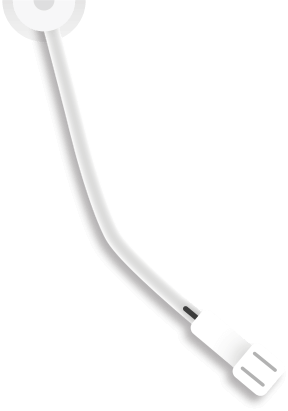
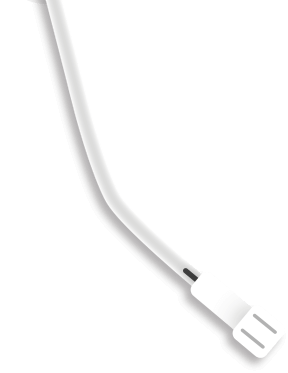
优化滚动条/完善上拉刷新

Changed region(s): [[0.0938, 0.0, 0.9688, 0.9732], [0.25, 0.0, 0.3125, 0.0295], [0.0, 0.0, 0.0625, 0.0295]]

diff --git a/src/components/home/SearchView.vue b/src/components/home/SearchView.vue
@@ -37,8 +37,8 @@
       <div class="headTopMargin" v-if="currentContent=='search'">
         <el-tabs stretch v-model="activeName">
           <el-tab-pane label="综合" name="first">
-            <div ref="test" :class="['music-box',showOverFlow?'showOverFlow':'hideOverFlow']">
-              <ul>
+            <div class="music-box">
+              <ul ref="test">
                 <li class="disable text-black">
                   <div class="content">单曲</div>
                   <div class="icon">
@@ -65,6 +65,11 @@
                     </div>
                   </div>
                 </li>
+
+                <li
+                  style="display:flex; justify-content: center;align-items: center;height:2em;"
+                  v-if="isLoading"
+                >正在加载中</li>
               </ul>
             </div>
           </el-tab-pane>
@@ -147,47 +152,47 @@
     <!-- /联想栏 -->
 
     <!-- 内容栏 -->
-    <transition
+    <!-- <transition
       enter-active-class="animated slideInUp"
       leave-active-class="animated slideInDown"
       tag="div"
       class="history-tags"
       mode="out-in"
-    >
-      <div class="container headTopMargin" v-if="currentContent=='default'">
-        <!-- 搜索历史 -->
-        <div class="history-box">
-          <div class="history-head">
-            <h3>搜索历史</h3>
-            <div class="lcon-more" @click="clearHistory">
-              <img src="../../assets/images/garbage.png" />
-            </div>
+    >-->
+    <div class="container headTopMargin" v-if="currentContent=='default'">
+      <!-- 搜索历史 -->
+      <div class="history-box">
+        <div class="history-head">
+          <h3>搜索历史</h3>
+          <div class="lcon-more" @click="clearHistory">
+            <img src="../../assets/images/garbage.png" />
           </div>
-          <div class="content">
-            <div class="history-tags">
-              <transition-group
-                enter-active-class="animated bounceIn"
-                leave-active-class="animated bounceOut"
-                tag="div"
-                class="history-tags"
-              >
-                <div
-                  class="tag"
-                  v-for="item in historyTags"
-                  :key="item.id"
-                  @click="tagTouchHander(item.name)"
-                >{{item.name}}</div>
-              </transition-group>
+        </div>
+        <div class="content">
+          <div class="history-tags">
+            <transition-group
+              enter-active-class="animated bounceIn"
+              leave-active-class="animated bounceOut"
+              tag="div"
+              class="history-tags"
+            >
+              <div
+                class="tag"
+                v-for="item in historyTags"
+                :key="item.id"
+                @click="tagTouchHander(item.name)"
+              >{{item.name}}</div>
+            </transition-group>
 
-              <div class="topBar" @click="changeTagView" v-if="historyTags!=null&&showTagBar">
-                <img src="@/assets/images/top.png" :class="isShowTagBtn?'fff':'rrr'" />
-              </div>
+            <div class="topBar" @click="changeTagView" v-if="historyTags!=null&&showTagBar">
+              <img src="@/assets/images/top.png" :class="isShowTagBtn?'fff':'rrr'" />
             </div>
           </div>
         </div>
-        <!-- /搜索历史 -->
       </div>
-    </transition>
+      <!-- /搜索历史 -->
+    </div>
+    <!-- </transition> -->
 
     <!-- /内容栏 -->
   </div>
@@ -215,9 +220,9 @@ export default {
       flag: false, //点击历史/热门标签后为watch监听作判断
       searchResult: [], //搜索结果
       page: 1, //搜索结果页数
-      showOverFlow: false, //搜索结果的滚动条是否显示
       overFlowTimeout: null, //滚动条定时器
-      isLoading: false //是否正在刷新
+      isLoading: false, //是否正在刷新
+      moveHeight: 0 //滚动条滑动距离
     };
   },
   methods: {
@@ -227,7 +232,7 @@ export default {
     },
     //返回到主页
     back() {
-      this.currentContent = "default"
+      this.currentContent = "default";
       this.$router.back(-1);
       // this.$router.push("/?back=true");
     },
@@ -276,10 +281,13 @@ export default {
         this.historyTags.push(data);
         this.$util.localUtil("historyTags", this.historyTags);
       }
+      this.searchText = val;
       this.initHistoryData();
       //========
       //展开搜索页面
-      this.getSearchResult();
+      this.page = 1;
+      this.moveHeight = 0;
+      this.getSearchResult(val);
       this.currentContent = "search";
     },
     //标签的展开和关闭
@@ -357,7 +365,9 @@ export default {
       this.flag = true;
       this.currentContent = "search";
       this.searchText = val;
-      this.getSearchResult();
+      self.page = 1;
+      self.moveHeight = 0;
+      this.getSearchResult(val);
     },
     //清空历史搜索
     clearHistory() {
@@ -365,14 +375,17 @@ export default {
       return;
     },
     //获取搜索结果
-    async getSearchResult() {
+    async getSearchResult(val) {
       const self = this;
+      if (this.page == 1) {
+        this.searchResult = [];
+      }
       var result = await this.$axios
         .get("/searchMusicApi", {
           params: {
             p: self.page++, //页数
             n: 15, //每页数据数量
-            w: self.searchText,
+            w: val,
             format: "json"
           }
         })
@@ -381,6 +394,7 @@ export default {
         });
       if (result.status == 200) {
         var goalData = result.data.data.song.list;
+
         for (var item of goalData) {
           this.searchResult.push(item);
         }
@@ -389,34 +403,31 @@ export default {
     },
     /*  搜索结果滚动条改变事件
      *  上拉加载新的词条
-     *  无操作隐藏滚动条
+     *
      */
     handleScroll() {
       //非search页面不操作
       if (this.currentContent != "search") {
         return;
       }
+      if (this.$refs.test.scrollHeight == undefined) {
+        return;
+      }
       const self = this;
       var totalHeight = this.$refs.test.scrollHeight;
       var clientHeight = this.$refs.test.clientHeight;
       var moveHeight = this.$refs.test.scrollTop;
-
-      if (totalHeight - clientHeight - moveHeight < 80 && !this.isLoading) {
-        console.log("Refresh");
+      // console.log(totalHeight);
+      // console.log(clientHeight);
+      // console.log(moveHeight);
+      if (moveHeight + clientHeight >= totalHeight - 20 && !this.isLoading) {
         //   设置为正在加载中
         this.isLoading = true;
+        console.log("Refresh");
         setTimeout(() => {
-          this.getSearchResult();
+          this.getSearchResult(self.searchText);
         }, 200);
       }
-
-      self.showOverFlow = true;
-      window.clearTimeout(this.overFlowTimeout);
-      this.overFlowTimeout = null;
-      //滚动条定时器
-      this.overFlowTimeout = window.setTimeout(function() {
-        self.showOverFlow = false;
-      }, 1500);
     },
     //加载搜索下一页结果
     loadSearchResult() {}
@@ -449,7 +460,7 @@ export default {
     this.initHistoryData();
   },
   mounted() {
-      window.addEventListener("scroll", this.handleScroll, true);
+    window.addEventListener("scroll", this.handleScroll, true);
   }
 };
 </script>
@@ -795,8 +806,8 @@ export default {
 
 ::-webkit-scrollbar {
   /*滚动条整体样式*/
-  width: 3px; /*高宽分别对应横竖滚动条的尺寸*/
-  height: 1px;
+  // width: 3px; /*高宽分别对应横竖滚动条的尺寸*/
+  // height: 1px;
 }
 
 ::-webkit-scrollbar-thumb {
@@ -817,14 +828,15 @@ export default {
 }
 .music-box {
   box-sizing: border-box;
-  height: 700px;
-  overflow-y: auto;
-  overflow-x: hidden; //设置Y轴出现滚动条，X轴隐藏
-  overflow-y: overlay;
+
   ul {
     width: 100%;
     padding: 0;
     margin: 0;
+    overflow-y: auto;
+    overflow-x: hidden; //设置Y轴出现滚动条，X轴隐藏
+    overflow-y: overlay;
+    max-height: 700px;
 
     .disable {
       font-size: 15px;

diff --git a/src/components/other/Player.vue b/src/components/other/Player.vue
@@ -9,9 +9,14 @@
         <div>丸之内虐待狂</div>
         <div>更多</div>
       </div>
+      <div class="around-box">
+        <div class="around1">
+          <div class="around2"></div>
+        </div>
+      </div>
+
       <div class="player-content">
         <div :class="['bracket',isStop?'rotate':'']">
-          <!-- <img src="@/assets/images/nrJyJP.png" /> -->
         </div>
         <div :class="['msk','animation',isStop?'stop':'running']">
           <img
@@ -133,7 +138,7 @@ export default {
     .bracket {
       position: absolute;
       z-index: 1;
-      left: 55%;
+      left: 54.2%;
       top: 50px;
       -webkit-transform-origin: top left;
       transform-origin: top left;
@@ -146,7 +151,7 @@ export default {
       width: 2rem;
       height: 0;
       padding-bottom: 2.5rem;
-      background-image: url(https://s3.music.126.net/mobile-new/img/needle-ip6.png?be4ebbeb6befadfcae75ce174e7db862=);
+      background-image: url('../../assets/images/nrJyJP.png');
       background-size: 100% 100%;
       background-repeat: no-repeat;
       transition: all 0.6s ease;
@@ -155,34 +160,55 @@ export default {
       transform: translate(-40%) rotate(-16deg);
       transition: all 0.6s ease;
     }
-    // .msk {
-    //   position: absolute;
-    //   height: 100vh;
-    //   background: url(https://s2.music.126.net/style/web2/img/coverall.png?de57f1fd876defc937c110aeb0ed6a17)
-    //     no-repeat;
-    //   width: 206px;
-    //   height: 205px;
-    //   top: -4px;
-    //   left: -4px;
-    //   background-position: -140px -580px;
-    //   border-radius: 50%;
-    // }
+
     .msk {
       position: absolute;
-      top: 93px;
-      background: url(https://s3.music.126.net/mobile-new/img/disc-ip6.png?69796123ad7cfe95781ea38aac8f2d48=)
+      top: 98px;
+      background: url('../../assets/images/bol.png')
         no-repeat;
       background-size: cover;
       box-sizing: border-box;
       width: 200px;
       height: 200px;
+      padding: 0;
       .cover {
-        width: 130px;
-        height: 130px;
+        width: 132px;
+        height: 132px;
         margin: 34px;
         border-radius: 50%;
       }
     }
   }
+}
+
+.around-box {
+  background-color: rgba(255, 255, 255, 0.2);
+  margin: 0 auto;
+  width: 13px;
+  height: 13px;
+  position: relative;
+  top: 20px;
+  border-radius: 50%;
+  padding: 1%;
+  z-index: 99;
+}
+
+.around1 {
+  width: 97%;
+  height: 97%;
+  background-color: #fff;
+  border-radius: 50%;
+  padding: 1.5%;
+  display: flex;
+  justify-content: center;
+  align-items: center;
+  // background: linear-gradient(#101012, #272729, #101012);
+}
+.around2 {
+  width: 40%;
+  height: 40%;
+  background-color: #dedede;
+  z-index: 99;
+  border-radius: 50%;
 }
 </style>
